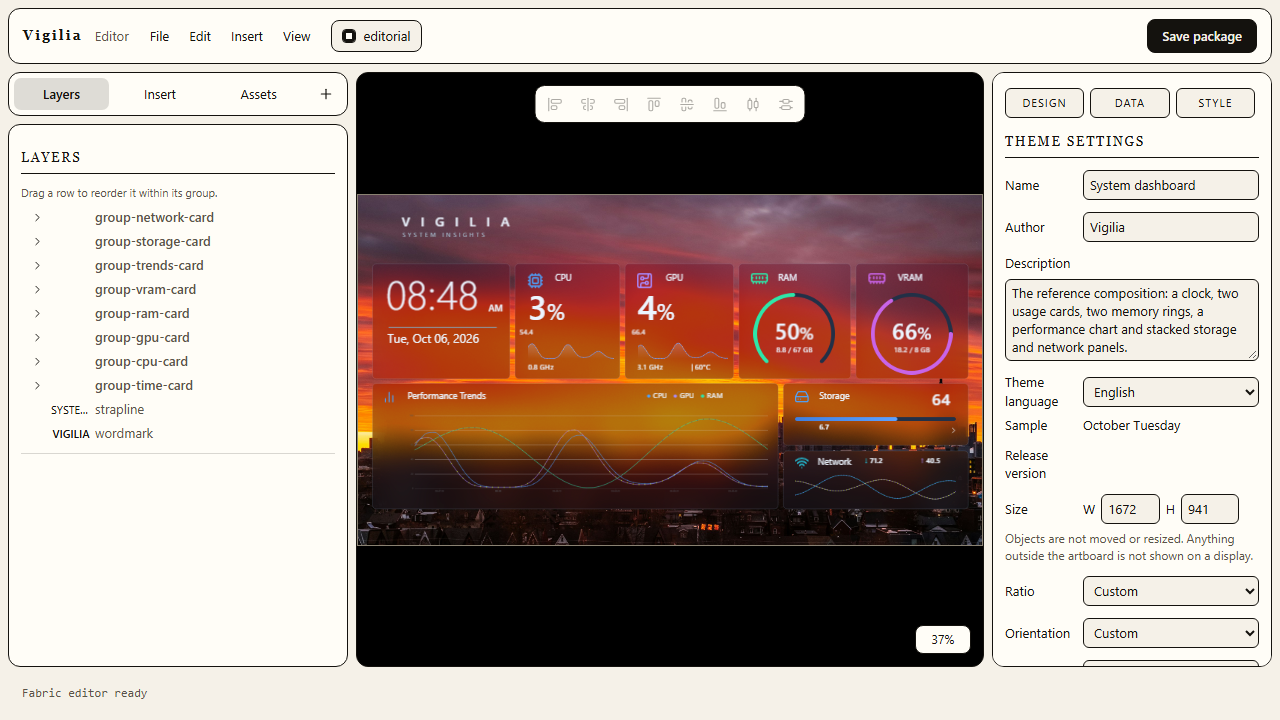
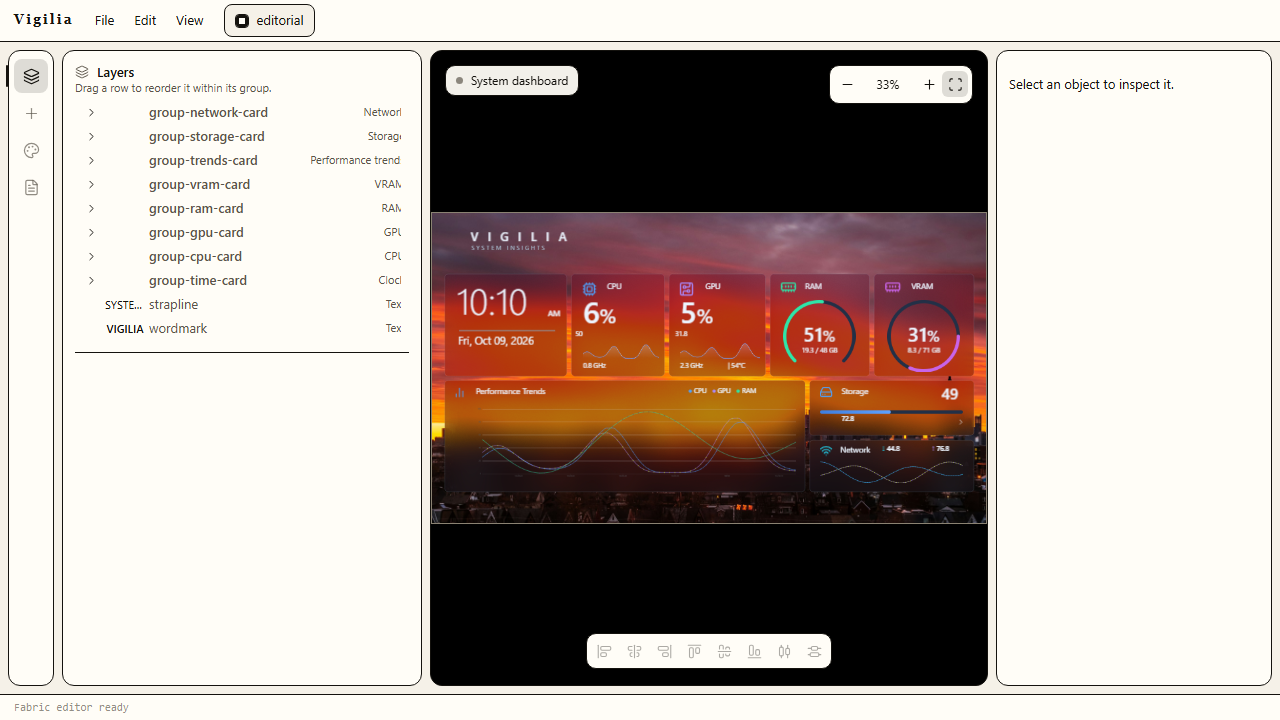
test(parity): capture the rebuilt shell with the Add pane open
Plan 2's parity capture (Task 9). Adds one capture to plan 1's harness,
`design-language.spec.ts`: the built editor is opened with the Add slot
showing and nothing selected — the state `editor-shell.html` draws — and the
whole-editor and dock captures it is compared beside are refreshed.

It fails if the shell is not the new one. Two facts are asserted before the
picture is written: the rail carries §7.2's four slots and exactly one pane in
the rail's column is showing. Proved by emptying `RAIL_SLOTS` and rebuilding —
the run failed `Expected: 4, Received: 0` at the rail-count assertion, then
passed 1 test with the rail restored. A `--grep` matching nothing exits 0 with
zero tests, so each run's summary was read, not its exit code.

Registered as `editor-shell-add` in the editor checklist. Reported and not
fixed: `[data-vigilia-panel]` also names the inspector's own `style` and
`selection` panes, so the pane assertion is scoped to `.editor-shell-panel`.

diff --git a/src/web/tests/e2e/design-language.spec.ts b/src/web/tests/e2e/design-language.spec.ts
@@ -1,5 +1,6 @@
 import { expect, type Page, test } from "@playwright/test";
 import { captureVisualReview } from "./editor-canvas.js";
+import { openPane } from "./editor-rail.js";
 import { isDesktopSurface } from "./surface.js";
 
 /**
@@ -39,6 +40,7 @@ import { isDesktopSurface } from "./surface.js";
  */
 
 const FIXTURE = "http://127.0.0.1:4174/control-fixture.html";
+const EDITOR = "http://127.0.0.1:4174/";
 
 /** Bible §3's named steps. The bible is the source; this list and the steps in
  *  `scripts/design-tokens.mjs` are two independent transcriptions of it, so a §3
@@ -1031,4 +1033,52 @@ test("the control set renders in the design language", async ({
     type: "contrast",
     description: ratios.join(" | "),
   });
+});
+
+/**
+ * The shell parity capture (bible §7.1–§7.3, mockup
+ * `docs/design/mockups/editor-shell.html`).
+ *
+ * Plan 1's mechanism, turned on the rebuilt shell: the built editor is opened
+ * in the state the mockup draws — the **Add** slot showing, nothing selected —
+ * and photographed for Task 10's side-by-side. The whole-editor and dock
+ * captures in `editor.spec.ts` are the other two of the comparison set.
+ *
+ * **It fails if the shell is not the new one**, which is the point: an old
+ * shell photographed happily is a comparison against the wrong thing. Two
+ * facts are asserted before the picture is written — the rail carries bible
+ * §7.2's four slots (the pre-rail shell had an Insert menu and no rail, so the
+ * count is 0) and exactly one of the rail's panes is showing (the shell keeps
+ * every pane mounted and hides the others, so a leftover second pane in the
+ * column shows as two).
+ *
+ * A `--grep` that matches nothing exits 0 with zero tests, so the run's own
+ * summary — "1 test", this file — is the proof it ran at all, not the exit code.
+ */
+test("captures the shell with the Add pane open and nothing selected", async ({
+  page,
+}, testInfo) => {
+  test.skip(!isDesktopSurface(testInfo), "the editor is a desktop surface");
+
+  await page.goto(EDITOR);
+  await expect(
+    page.locator("#vigilia-fabric-editor canvas.upper-canvas"),
+  ).toBeVisible();
+
+  // §7.2's four slots, and only a shell that has the rail has them.
+  await expect(page.locator(".editor-shell-rail-slot")).toHaveCount(4);
+
+  await openPane(page, "Add");
+  await expect(page.locator('[data-vigilia-panel="add"]')).toBeVisible();
+  // Exactly one of the rail's four panes is out. Scoped to the rail's own
+  // column (`.editor-shell-panel`) because the inspector is built from the same
+  // `Pane` component and carries `style` and `selection` panels of its own — a
+  // bare `[data-vigilia-panel]` count of six panes is not "one pane showing".
+  // `:visible`, not a bare count: every pane stays mounted and the ones that
+  // are not showing carry `hidden` (`display: none`), which is not showing.
+  await expect(
+    page.locator(".editor-shell-panel [data-vigilia-panel]:visible"),
+  ).toHaveCount(1);
+
+  await captureVisualReview(page, testInfo, "editor-shell-add");
 });

diff --git a/docs/evidence/screenshots/README.md b/docs/evidence/screenshots/README.md
@@ -70,6 +70,7 @@ result, not merely a mounted editor.
 | Keyboard | Hover a dock action and read the chord its tooltip names | `keyboard-tooltip` / `every canvas action's tooltip names the chord that runs it` |
 | Keyboard | Read the reference sheet, opened with `?` over an entered group | `keyboard-reference` / `? opens the sheet, and the document behind it does not change` |
 | Shell appearance | Choose each of the six palettes and read the surface | `shell-palette-` / `captures each palette's own surface` |
+| Shell | Mount the shell with the Add slot open and nothing selected | `editor-shell-add` / `captures the shell with the Add pane open` |
 | Design language | Mount the control set over the built stylesheet and read it in a panel | `control-set` / `the control set renders in the design language` — two files, `-desktop-chromium` (graphite, the ground the mockup is drawn on) and `-editorial-desktop-chromium` |
 | Feedback | Error, notice, disabled action or compatibility message | add when changed |
 
